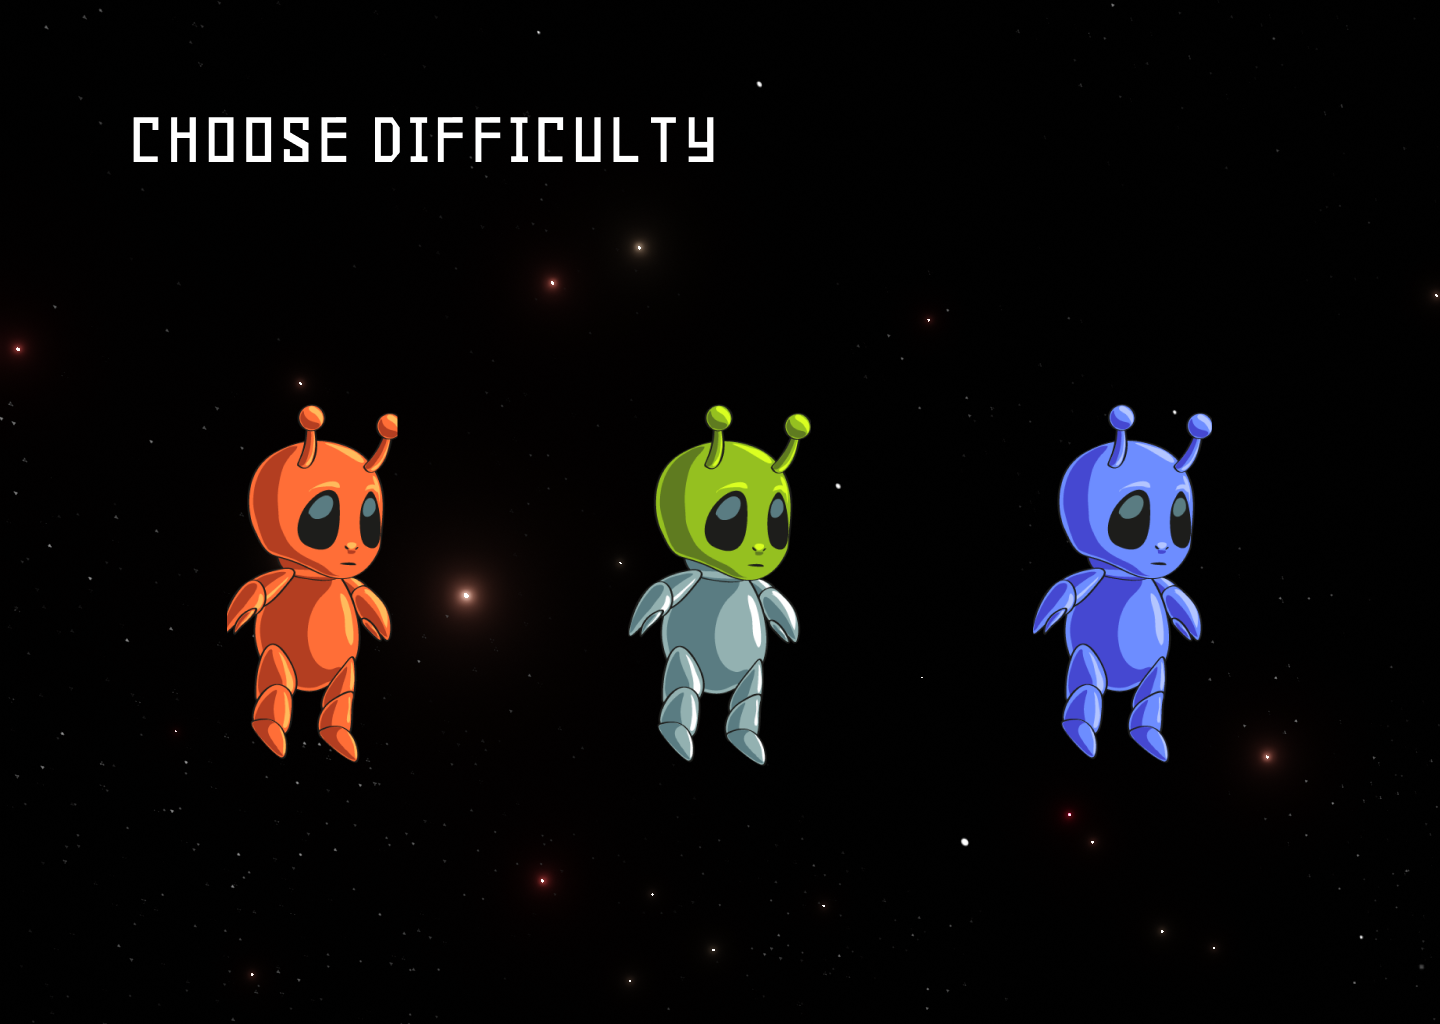
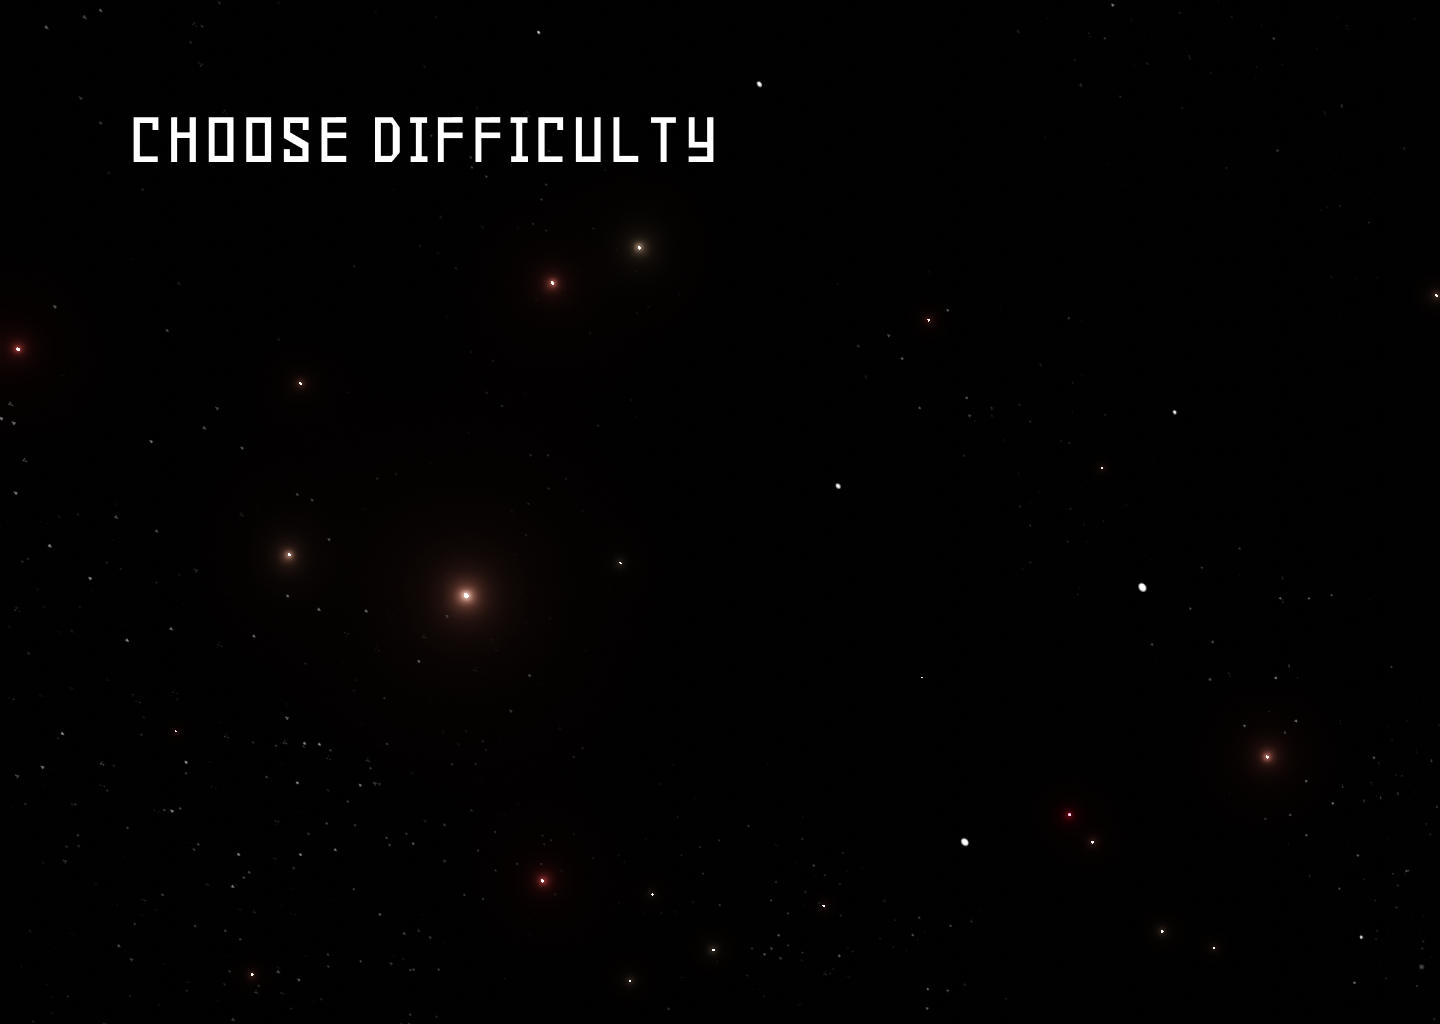
redid some buttons and design

Changed region(s): [[0.7188, 0.375, 0.8438, 0.75], [0.1562, 0.375, 0.2812, 0.75], [0.4375, 0.4062, 0.5625, 0.75]]

diff --git a/core/src/com/grupp28gdx/game/states/ChooseDifficultyState.java b/core/src/com/grupp28gdx/game/states/ChooseDifficultyState.java
@@ -12,9 +12,13 @@ public class ChooseDifficultyState extends State{
     private Texture normalButtonPressed;
     private Texture hardButton;
     private Texture hardButtonPressed;
+    private Texture blueplayer;
+    private Texture greenplayer;
+    private Texture redplayer;
     private int screenHeight;
     private int screenWidth;
     private int buttonWidth;
+    private int spriteWidth;
 
     private int x;
     private int y;
@@ -22,43 +26,47 @@ public class ChooseDifficultyState extends State{
     protected ChooseDifficultyState(GameStateManager gsm){
         super(gsm);
         background = new Texture("Pick player.png");
-        easyButton = new Texture("EASY.png");
-        easyButtonPressed = new Texture("EASY pressed.png");
-        normalButton = new Texture("NORMAL.png");
-        normalButtonPressed = new Texture("NORMAL pressed.png");
-        hardButton = new Texture("HARD.png");
-        hardButtonPressed = new Texture("HARD pressed.png");
+        easyButton = new Texture("Easybutton.png");
+        easyButtonPressed = new Texture("EasybuttonPressed.png");
+        normalButton = new Texture("Normalbutton.png");
+        normalButtonPressed = new Texture("NormalbuttonPressed.png");
+        hardButton = new Texture("Hardbutton.png");
+        hardButtonPressed = new Texture("HardbuttonPressed.png");
+        blueplayer = new Texture("blueplayer.png");
+        greenplayer = new Texture("greenplayer.png");
+        redplayer = new Texture("redplayer.png");
 
         this.screenWidth = Gdx.graphics.getWidth();
         this.screenHeight = Gdx.graphics.getHeight();
         this.buttonWidth = normalButton.getWidth();
-        this.x = screenWidth/2 - buttonWidth/2;
-        this.y = screenHeight/2 + 140;
+        this.spriteWidth = blueplayer.getWidth();
+        this.x = screenWidth/2;
+        this.y = screenHeight/2;
     }
 
-    public void hover(Texture texture, int x){
-    int posX = this.x + x;
+    public void hover(Texture texture, int x, int y){
+    int posX = x;
     int posY = y;
-        this.rc.render(texture, posX, posY);
+    this.rc.render(texture, posX, posY);
     }
 
     @Override
     protected void handleInput() {
         int inputX = MenuInputHandler.checkInputX();
         int inputY = MenuInputHandler.checkInputY();
-        if (inputX < x + buttonWidth && inputX > x ) {
+        if (inputX < x + buttonWidth/2 && inputX > x - buttonWidth/2) {
             if (Gdx.input.isTouched()) {
                 gsm.set(new PlayState(gsm));
                 dispose();
             }
         }
-        if (inputX < screenWidth/4+buttonWidth/2 && inputX > screenWidth/4-buttonWidth/2 ) {
+        if (inputX < x/2 + buttonWidth/2 && inputX > x/2 - buttonWidth/2) {
             if (Gdx.input.isTouched()) {
                 gsm.set(new PlayState(gsm));
                 dispose();
             }
         }
-        if (inputX < screenWidth*3/4+buttonWidth/2 && inputX > screenWidth*3/4-buttonWidth/2) {
+        if (inputX < x*3/2 + buttonWidth/2 && inputX > x*3/2 - buttonWidth/2) {
             if (Gdx.input.isTouched()) {
                 gsm.set(new PlayState(gsm));
                 dispose();
@@ -77,17 +85,26 @@ public class ChooseDifficultyState extends State{
         int inputY = MenuInputHandler.checkInputY();
 
         rc.render(background,0 ,0, screenWidth, screenHeight);
-        rc.render(normalButton,x,y);        //&& inputY < y + 40 && inputY > y - 40
-        if (inputX < x + buttonWidth && inputX > x ){
-            hover(normalButtonPressed, 0);
+
+        rc.render(greenplayer, x - spriteWidth/2, y*2/3);
+
+        rc.render(redplayer,x/2 - spriteWidth/2,y*2/3);
+
+        rc.render(blueplayer,x*3/2 - spriteWidth/2,y*2/3);
+
+        rc.render(normalButton,x-buttonWidth/2,y/3);
+        if (inputX < x + buttonWidth/2 && inputX > x - buttonWidth/2){
+            hover(normalButtonPressed, x - buttonWidth/2, y/3);
         }
-        rc.render(easyButton,screenWidth/4-buttonWidth/2,y);
-        if (inputX < screenWidth/4+buttonWidth/2 && inputX > screenWidth/4-buttonWidth/2 ){
-            hover(easyButtonPressed, -screenWidth/4);
+
+        rc.render(easyButton,x/2 - buttonWidth/2,y/3);
+        if (inputX < x/2 + buttonWidth/2 && inputX > x/2 - buttonWidth/2){
+            hover(easyButtonPressed, x/2 - buttonWidth/2, y/3);
         }
-        rc.render(hardButton,screenWidth*3/4,y);
-        if (inputX < screenWidth*3/4+buttonWidth/2 && inputX > screenWidth*3/4-buttonWidth/2){
-            hover(hardButtonPressed, screenWidth/4+buttonWidth/2);
+
+        rc.render(hardButton,x*3/2 - buttonWidth/2,y/3);
+        if (inputX < x*3/2 + buttonWidth/2 && inputX > x*3/2 - buttonWidth/2){
+            hover(hardButtonPressed, x*3/2 - buttonWidth/2, y/3);
         }
     }
 
